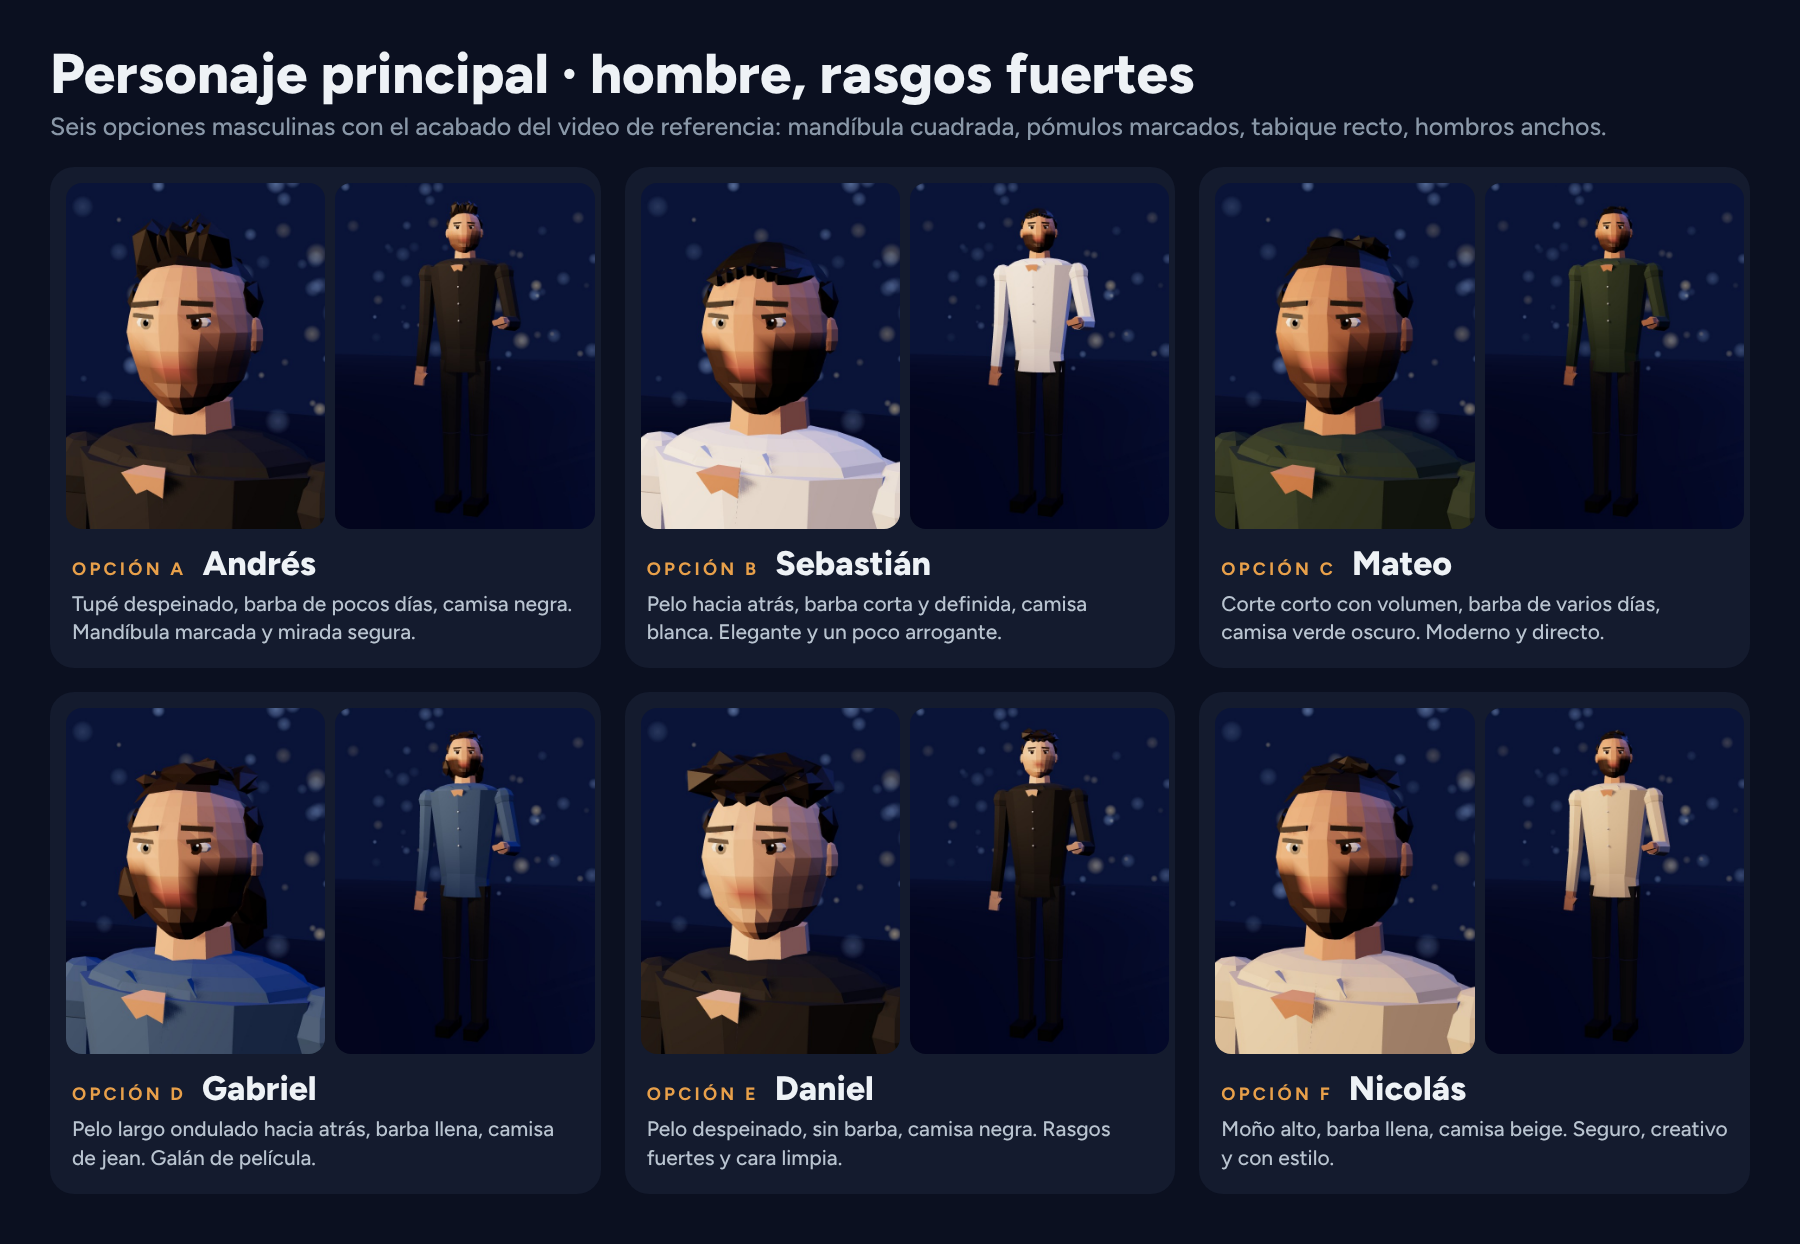
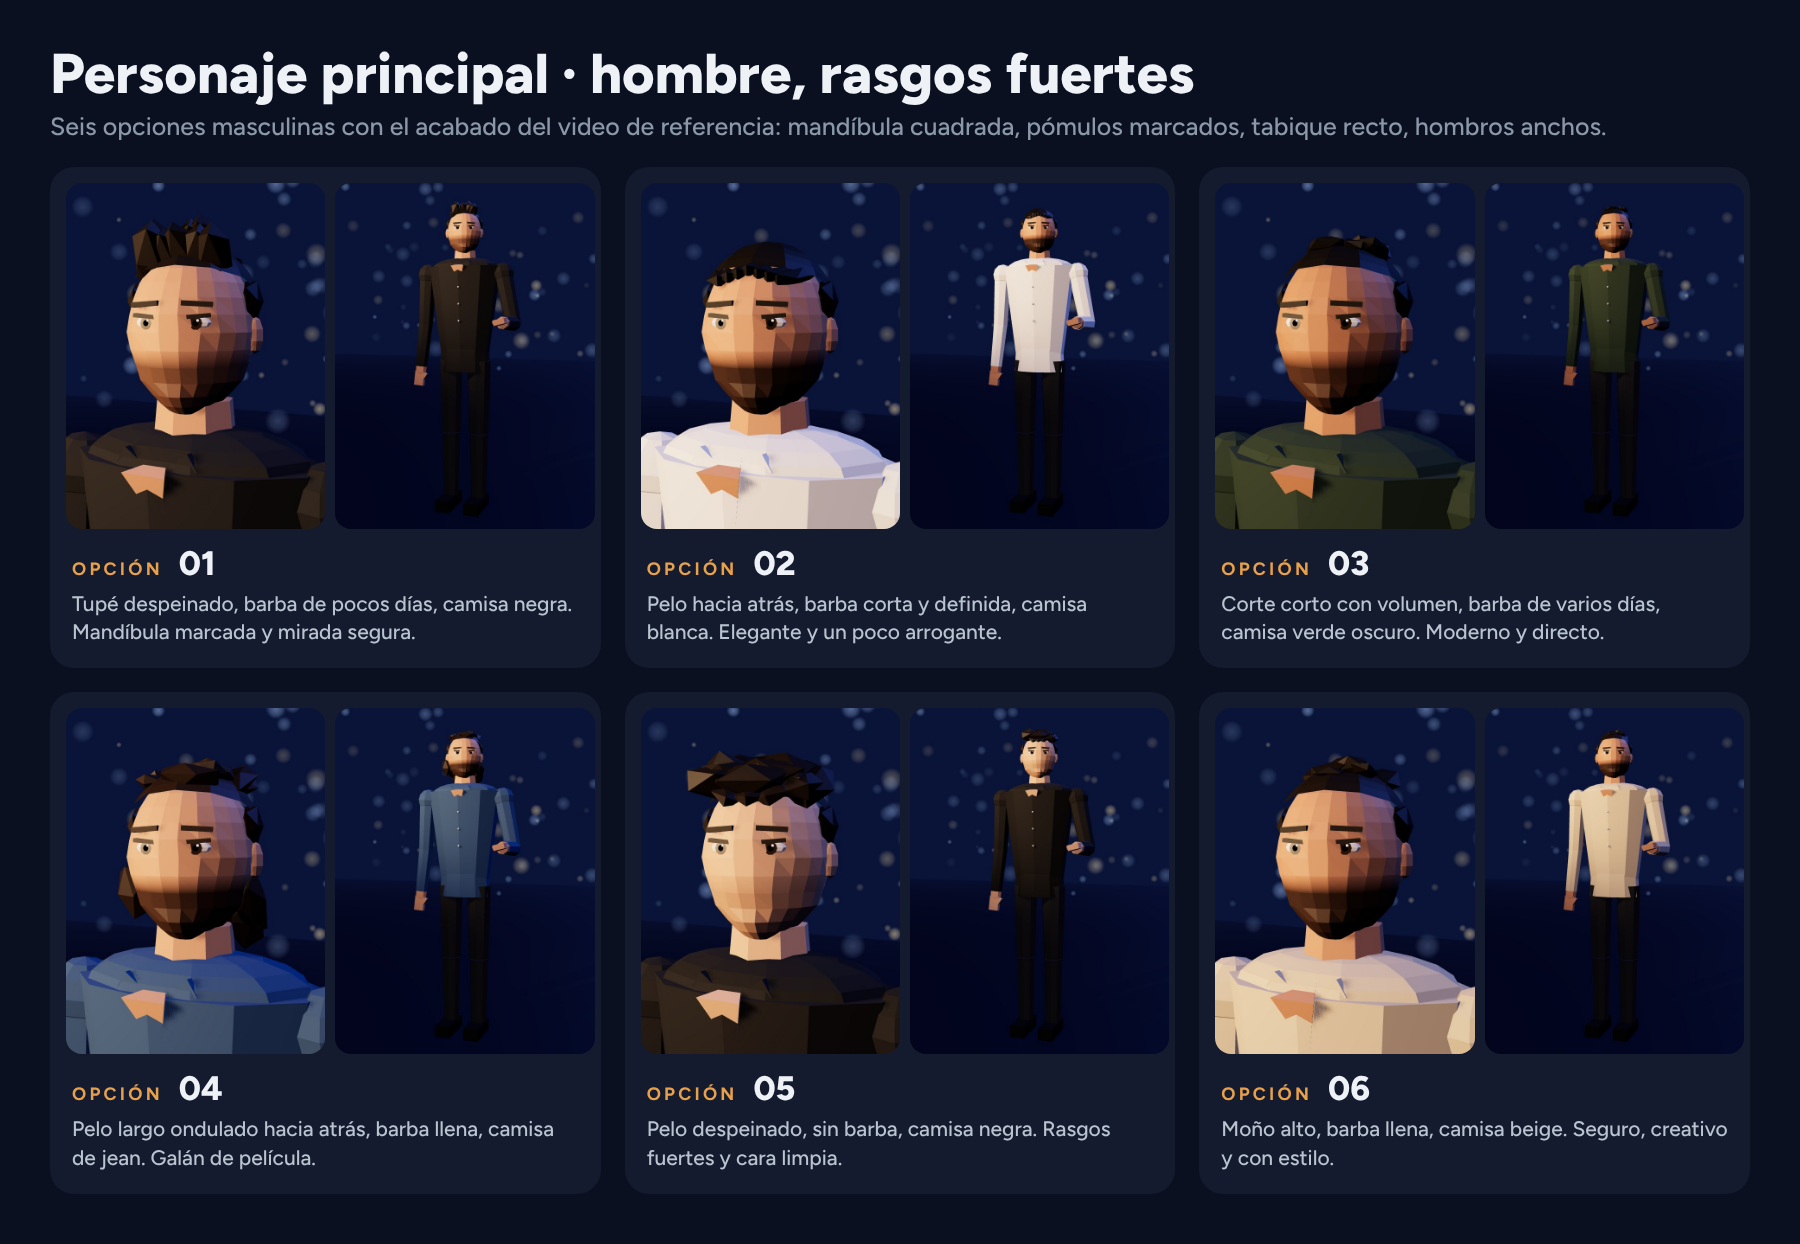
Personaje 01: cara definitiva (rasgos de las opciones 01, 02 y 06); opciones numeradas sin nombres
Claude-Session: https://claude.ai/code/session_016r3h3eddn8zLcxunDkNv4C

diff --git a/produccion/redes/voxel/lowpoly3d.js b/produccion/redes/voxel/lowpoly3d.js
@@ -25,9 +25,9 @@ function personaLowPoly(cfg = {}) {
     p.setXYZ(i, x * 0.86, y * 1.16, z * 0.98);
     // color por vértice: piel, barba de pocos días en mandíbula y bigote, labios
     let cc = piel.clone(); const yb = y;
-    const zonaBarba = (yb < -0.14 && z > -0.3) && !(Math.abs(x) < 0.16 && yb > -0.32 && z > 0.85);
-    const fb = c.barbaNivel ?? (c.mujer ? 0 : 0.7); if (zonaBarba && fb > 0) cc.lerp(barba, Math.min(0.95, fb * Math.min(1, (-0.14 - yb) * 4 + 0.35 + (fb > 0.85 ? 0.5 : 0))));
-    if (yb < -0.36 && yb > -0.5 && Math.abs(x) < 0.28 && z > 0.82) cc = lab.clone();
+    const fbz = c.barbaNivel ?? (c.mujer ? 0 : 0.7), nariz = Math.abs(x) < 0.22 && yb > -0.34 && z > 0.78, bigote = Math.abs(x) < 0.24 && yb <= -0.34 && yb > -0.42 && z > 0.78, zonaBarba = !nariz && ((yb < -0.26 && z > -0.3) || (fbz >= 0.85 && bigote));
+    const fb = c.barbaNivel ?? (c.mujer ? 0 : 0.7); if (zonaBarba && fb > 0) cc.lerp(barba, Math.min(0.92, fb * Math.min(1, (-0.26 - yb) * 5 + 0.45 + (fb > 0.85 ? 0.4 : 0))));
+    if (yb < -0.4 && yb > -0.49 && Math.abs(x) < 0.2 && z > 0.84) cc = fbz > 0.85 ? lab.clone().lerp(barba, 0.35) : lab.clone();
     col.push(cc.r, cc.g, cc.b);
   }
   geo.setAttribute("color", new THREE.Float32BufferAttribute(col, 3)); geo.computeVertexNormals(); geo.scale(R, R, R);
@@ -60,6 +60,13 @@ function personaLowPoly(cfg = {}) {
     for (let i = 0; i < 9; i++) { const x0 = R * (-0.42 + (i % 5) * 0.21), m = add(new THREE.IcosahedronGeometry(R * (0.3 + r() * 0.08), 0), mP, x0, R * (0.95 + r() * 0.12 + (i > 4 ? 0.08 : 0)), R * (0.42 - (i > 4 ? 0.35 : 0)), cabeza); m.scale.set(0.8, 0.6, 1.6); m.rotation.set(-0.7 - r() * 0.3, (r() - 0.5) * 0.4, (r() - 0.5) * 0.3); } }
   if (peinado === "atras") { for (let i = 0; i < 14; i++) { const x0 = R * (-0.5 + (i % 7) * 0.165), z0 = R * (0.35 - Math.floor(i / 7) * 0.6), m = add(new THREE.IcosahedronGeometry(R * 0.3, 0), mP, x0, R * (0.85 - Math.abs(x0 / R) * 0.25 - Math.floor(i / 7) * 0.06), z0, cabeza);
       m.scale.set(0.7, 0.42, 2.0); m.rotation.set(0.15, x0 / R * -0.4, 0); } }
+  if (peinado === "definitivo") {   // tupé peinado hacia atrás que termina en un moño alto; lados cortos
+    for (let i = 0; i < 10; i++) { const x0 = R * (-0.42 + (i % 5) * 0.21), z0 = R * (0.3 - Math.floor(i / 5) * 0.55), m = add(new THREE.IcosahedronGeometry(R * 0.3, 0), mP, x0, R * (0.9 - Math.abs(x0 / R) * 0.25 - Math.floor(i / 5) * 0.02), z0, cabeza);
+      m.scale.set(0.72, 0.45, 2.0); m.rotation.set(0.1, x0 / R * -0.35, 0); }
+    for (let i = 0; i < 5; i++) { const x0 = R * (-0.32 + i * 0.16), m = add(new THREE.IcosahedronGeometry(R * (0.3 + r() * 0.04), 0), mP, x0, R * (0.97 + r() * 0.04), R * 0.42, cabeza); m.scale.set(0.8, 0.42, 1.7); m.rotation.set(-0.22, (r() - 0.5) * 0.25, (r() - 0.5) * 0.15); }
+    const mono = add(new THREE.IcosahedronGeometry(R * 0.36, 1), mP, 0, R * 1.0, -R * 0.62, cabeza); mono.scale.set(1, 0.85, 1);
+    add(new THREE.TorusGeometry(R * 0.2, R * 0.05, 4, 8), F("#0b0908", 0.5), 0, R * 0.92, -R * 0.45, cabeza).rotation.x = 1.1;
+    [-1, 1].forEach((d) => { const lado = add(new THREE.IcosahedronGeometry(R * 0.34, 0), F(c.pelo, 0.7), d * R * 0.8, R * 0.38, -R * 0.15, cabeza); lado.scale.set(0.4, 0.75, 1.1); }); }
   if (peinado === "corto") { mech(10, 0.26, 0.74, -R * 0.02, [1, 0.4, 1.3]); }
   if (peinado === "rizado") { for (let i = 0; i < 40; i++) { const a = r() * PI * 2, el = r() * 1.25; const m = add(new THREE.IcosahedronGeometry(R * (0.17 + r() * 0.07), 0), mP,
       Math.cos(a) * Math.sin(el) * R * 1.0, R * (0.25 + Math.cos(el) * 0.85), Math.sin(a) * Math.sin(el) * R * 0.98 - R * 0.05, cabeza); m.rotation.set(r() * 3, r() * 3, r() * 3); } }

diff --git a/produccion/redes/voxel/cara.py b/produccion/redes/voxel/cara.py
@@ -1,0 +1,49 @@
+"""Personaje 01 · cara definitiva (low-poly, rasgos fuertes): mezcla de los rasgos 01, 02 y 06 de los bocetos.
+  python cara.py  →  entregables/redes/bocetos/personaje-01.png"""
+import os, json, asyncio, importlib.util
+AQUI = os.path.dirname(os.path.abspath(__file__)) + "/"
+_spec = importlib.util.spec_from_file_location("motor", AQUI + "../heroes/hacer.py"); motor = importlib.util.module_from_spec(_spec); _spec.loader.exec_module(motor)
+RAIZ = motor.RAIZ; SALIDA = RAIZ + "entregables/redes/bocetos/"; THREE = motor.TRABAJO + "three/package/build/three.min.js"
+P01 = dict(semilla=31, fuerte=True, peinado="definitivo", barbaNivel=0.95, piel="#c98e6b", pelo="#16100c", barba="#1a120e", camisa="#17181c", iris="#3a281a")
+VISTAS = [("Frente", [0, 1.7, 0.78], [0, 1.68, 0], 30, dict()), ("Tres cuartos", [0.5, 1.71, 0.62], [0, 1.68, 0], 30, dict(mira=0.15)),
+          ("Perfil", [0.8, 1.7, 0.05], [0, 1.68, 0], 30, dict()), ("Mirada a cámara", [-0.42, 1.68, 0.68], [0, 1.68, 0], 30, dict(mira=-0.45, miraY=-0.05)),
+          ("Cuerpo entero", [1.1, 1.25, 3.3], [0, 0.95, 0], 34, dict(mira=0.3, bd=[-0.2, 0.25, -1.4]))]
+def main():
+    leer = lambda p: open(p).read(); W = motor.TRABAJO + "bocetos/"; os.makedirs(W, exist_ok=True); os.makedirs(SALIDA, exist_ok=True)
+    imgs = "".join(f'<figure><img id="v{i}"><figcaption>{n}</figcaption></figure>' for i, (n, *_) in enumerate(VISTAS))
+    html = f'''<!doctype html><html><head><meta charset="utf-8">{leer(RAIZ + "produccion/videos/fuentes.html")}<style>
+body{{margin:0;background:#0b1020;color:#eef2f6;font-family:Figtree;width:1800px}} h1{{font:800 60px Figtree;margin:40px 50px 4px}} h3{{font:700 22px Figtree;letter-spacing:.2em;color:#e8a04a;margin:0 50px}}
+p{{font:500 25px/1.4 Figtree;color:#b9c4d0;margin:14px 50px 26px;max-width:1650px}} .g{{display:grid;grid-template-columns:repeat(5,1fr);gap:14px;padding:0 50px 50px}} figure{{margin:0;background:#141b2e;border-radius:20px;padding:10px}}
+img{{width:100%;border-radius:12px}} figcaption{{font:700 18px Figtree;letter-spacing:.14em;text-transform:uppercase;color:#8a98a8;margin:8px 4px 2px}}</style></head><body>
+<h1>Personaje 01</h1><h3>CARA DEFINITIVA · LOW-POLY</h3>
+<p>Rasgos del 01 (tupé, mirada segura), del 02 (pelo hacia atrás, barba corta y definida) y del 06 (moño alto, barba llena). Mandíbula cuadrada, pómulos marcados, tabique recto, ceja fuerte y hombros anchos. Camisa negra.</p>
+<div class="g">{imgs}</div><canvas id="lienzo" width="600" height="800" style="display:none"></canvas>
+<script src="file://{THREE}"></script>
+<script>const PI = Math.PI; function semilla(s) {{ return () => {{ s |= 0; s = (s + 0x6d2b79f5) | 0; let t = Math.imul(s ^ (s >>> 15), 1 | s); t = (t + Math.imul(t ^ (t >>> 7), 61 | t)) ^ t; return ((t ^ (t >>> 14)) >>> 0) / 4294967296; }}; }}
+const VISTAS = {json.dumps([[a, b, f, e] for (_, a, b, f, e) in VISTAS])}; const P01 = {json.dumps(P01)};
+{leer(AQUI + "lowpoly3d.js")}
+const REN = new THREE.WebGLRenderer({{ canvas: document.getElementById("lienzo"), antialias: true, preserveDrawingBuffer: true }});
+REN.setSize(600, 800, false); REN.shadowMap.enabled = true; REN.toneMapping = THREE.ACESFilmicToneMapping; REN.toneMappingExposure = 1.15; REN.outputColorSpace = THREE.SRGBColorSpace;
+const ESC = new THREE.Scene(); ESC.background = new THREE.Color(0x0a1438); ESC.fog = new THREE.Fog(0x0a1438, 6, 22);
+const bok = (() => {{ const cv = document.createElement("canvas"); cv.width = cv.height = 64; const g = cv.getContext("2d"), gr = g.createRadialGradient(32, 32, 0, 32, 32, 32); gr.addColorStop(0, "rgba(255,255,255,.95)"); gr.addColorStop(0.6, "rgba(255,255,255,.55)"); gr.addColorStop(1, "rgba(255,255,255,0)"); g.fillStyle = gr; g.fillRect(0, 0, 64, 64); return new THREE.CanvasTexture(cv); }})();
+const rr = semilla(5); for (let i = 0; i < 220; i++) {{ const s = new THREE.Sprite(new THREE.SpriteMaterial({{ map: bok, color: rr() < 0.65 ? 0x6f9bff : 0xffc37a, transparent: true, opacity: 0.25 + rr() * 0.5, depthWrite: false }}));
+  s.position.set((rr() - 0.5) * 16, rr() * 6, -6 - rr() * 6); s.scale.setScalar(0.08 + rr() * 0.3); ESC.add(s); }}
+const piso = new THREE.Mesh(new THREE.PlaneGeometry(20, 20), new THREE.MeshStandardMaterial({{ color: 0x141a2e, roughness: 0.6 }})); piso.rotation.x = -PI / 2; piso.receiveShadow = true; ESC.add(piso);
+ESC.add(new THREE.HemisphereLight(0x5a78d8, 0x3a3550, 1.1));
+const lampara = new THREE.SpotLight(0xffd2a0, 9, 6, 0.6, 0.6, 1.6); lampara.position.set(-0.9, 1.9, 1.3); lampara.castShadow = true; ESC.add(lampara);
+const relleno = new THREE.DirectionalLight(0xffe2c8, 1.1); relleno.position.set(0.6, 1.9, 3.0); ESC.add(relleno);
+const contra = new THREE.DirectionalLight(0x6f8fff, 1.6); contra.position.set(1.5, 2.5, -2.5); ESC.add(contra);
+const P = personaLowPoly(P01); ESC.add(P.raiz); lampara.target = P.cabeza;
+const CAM = new THREE.PerspectiveCamera(30, 600 / 800, 0.05, 60);
+VISTAS.forEach(([pp, tt, f, e], i) => {{ P.pose(e); CAM.fov = f; CAM.position.set(...pp); CAM.lookAt(...tt); CAM.updateProjectionMatrix(); REN.render(ESC, CAM); document.getElementById("v" + i).src = REN.domElement.toDataURL("image/jpeg", 0.92); }});
+</script></body></html>'''
+    open(W + "cara.html", "w").write(html)
+    async def foto():
+        from playwright.async_api import async_playwright
+        async with async_playwright() as p:
+            br = await p.chromium.launch(executable_path=motor.CHROME, args=["--use-gl=angle", "--use-angle=swiftshader", "--enable-unsafe-swiftshader", "--ignore-gpu-blocklist"])
+            pg = await br.new_page(viewport={"width": 1800, "height": 1000}); pg.on("pageerror", lambda e: print("ERR", e))
+            await pg.goto("file://" + W + "cara.html"); await pg.evaluate("document.fonts.ready"); await pg.wait_for_timeout(1500)
+            await pg.screenshot(path=SALIDA + "personaje-01.png", full_page=True); await br.close()
+    asyncio.run(foto()); print("listo", SALIDA + "personaje-01.png")
+if __name__ == "__main__": main()

diff --git a/produccion/redes/voxel/lowpoly.py b/produccion/redes/voxel/lowpoly.py
@@ -5,21 +5,21 @@ AQUI = os.path.dirname(os.path.abspath(__file__)) + "/"
 _spec = importlib.util.spec_from_file_location("motor", AQUI + "../heroes/hacer.py"); motor = importlib.util.module_from_spec(_spec); _spec.loader.exec_module(motor)
 RAIZ = motor.RAIZ; SALIDA = RAIZ + "entregables/redes/bocetos/"; THREE = motor.TRABAJO + "three/package/build/three.min.js"
 OPCIONES = [
-    dict(letra="A", nombre="Andrés", desc="Tupé despeinado, barba de pocos días, camisa negra. Mandíbula marcada y mirada segura.", cfg=dict(semilla=11, fuerte=True, peinado="tupe", barbaNivel=0.75)),
-    dict(letra="B", nombre="Sebastián", desc="Pelo hacia atrás, barba corta y definida, camisa blanca. Elegante y un poco arrogante.",
+    dict(letra="01", nombre="", desc="Tupé despeinado, barba de pocos días, camisa negra. Mandíbula marcada y mirada segura.", cfg=dict(semilla=11, fuerte=True, peinado="tupe", barbaNivel=0.75)),
+    dict(letra="02", nombre="", desc="Pelo hacia atrás, barba corta y definida, camisa blanca. Elegante y un poco arrogante.",
          cfg=dict(semilla=21, fuerte=True, peinado="atras", barbaNivel=0.95, piel="#c88e6c", camisa="#ecebe7", pelo="#15100d", barba="#1c1410")),
-    dict(letra="C", nombre="Mateo", desc="Corte corto con volumen, barba de varios días, camisa verde oscuro. Moderno y directo.",
+    dict(letra="03", nombre="", desc="Corte corto con volumen, barba de varios días, camisa verde oscuro. Moderno y directo.",
          cfg=dict(semilla=22, fuerte=True, peinado="corto", barbaNivel=0.85, piel="#b27a58", camisa="#24382c", pelo="#0f0c0a", barba="#16110e")),
-    dict(letra="D", nombre="Gabriel", desc="Pelo largo ondulado hacia atrás, barba llena, camisa de jean. Galán de película.",
+    dict(letra="04", nombre="", desc="Pelo largo ondulado hacia atrás, barba llena, camisa de jean. Galán de película.",
          cfg=dict(semilla=23, fuerte=True, peinado="largo", barbaNivel=1.0, piel="#c99474", camisa="#34537a", pelo="#2a1b13", barba="#2a1b13")),
-    dict(letra="E", nombre="Daniel", desc="Pelo despeinado, sin barba, camisa negra. Rasgos fuertes y cara limpia.",
+    dict(letra="05", nombre="", desc="Pelo despeinado, sin barba, camisa negra. Rasgos fuertes y cara limpia.",
          cfg=dict(semilla=24, fuerte=True, peinado="despeinado", barbaNivel=0.25, piel="#d7a684", camisa="#18191d", pelo="#1e1410")),
-    dict(letra="F", nombre="Nicolás", desc="Moño alto, barba llena, camisa beige. Seguro, creativo y con estilo.",
+    dict(letra="06", nombre="", desc="Moño alto, barba llena, camisa beige. Seguro, creativo y con estilo.",
          cfg=dict(semilla=25, fuerte=True, peinado="mono", barbaNivel=1.0, piel="#bf8766", camisa="#c9b79a", pelo="#1a120d", barba="#1a120d")),
 ]
 def main():
     leer = lambda p: open(p).read(); W = motor.TRABAJO + "bocetos/"; os.makedirs(W, exist_ok=True); os.makedirs(SALIDA, exist_ok=True)
-    tarjetas = "".join(f'<div class="t"><div class="fotos"><img id="r{o["letra"]}"><img id="c{o["letra"]}"></div><h2><span>Opción {o["letra"]}</span> {o["nombre"]}</h2><p>{o["desc"]}</p></div>' for o in OPCIONES)
+    tarjetas = "".join(f'<div class="t"><div class="fotos"><img id="r{o["letra"]}"><img id="c{o["letra"]}"></div><h2><span>Opción</span> {o["letra"]}</h2><p>{o["desc"]}</p></div>' for o in OPCIONES)
     html = f'''<!doctype html><html><head><meta charset="utf-8">{leer(RAIZ + "produccion/videos/fuentes.html")}<style>
 body{{margin:0;background:#0b1020;color:#eef2f6;font-family:Figtree;width:1800px}} h1{{font:800 56px Figtree;margin:40px 50px 4px}} .sub{{margin:0 50px 26px;color:#8a98a8;font:500 25px Figtree}}
 .g{{display:grid;grid-template-columns:repeat(3,1fr);gap:24px;padding:0 50px 50px}} .t{{background:#141b2e;border-radius:24px;padding:16px 16px 22px}}
